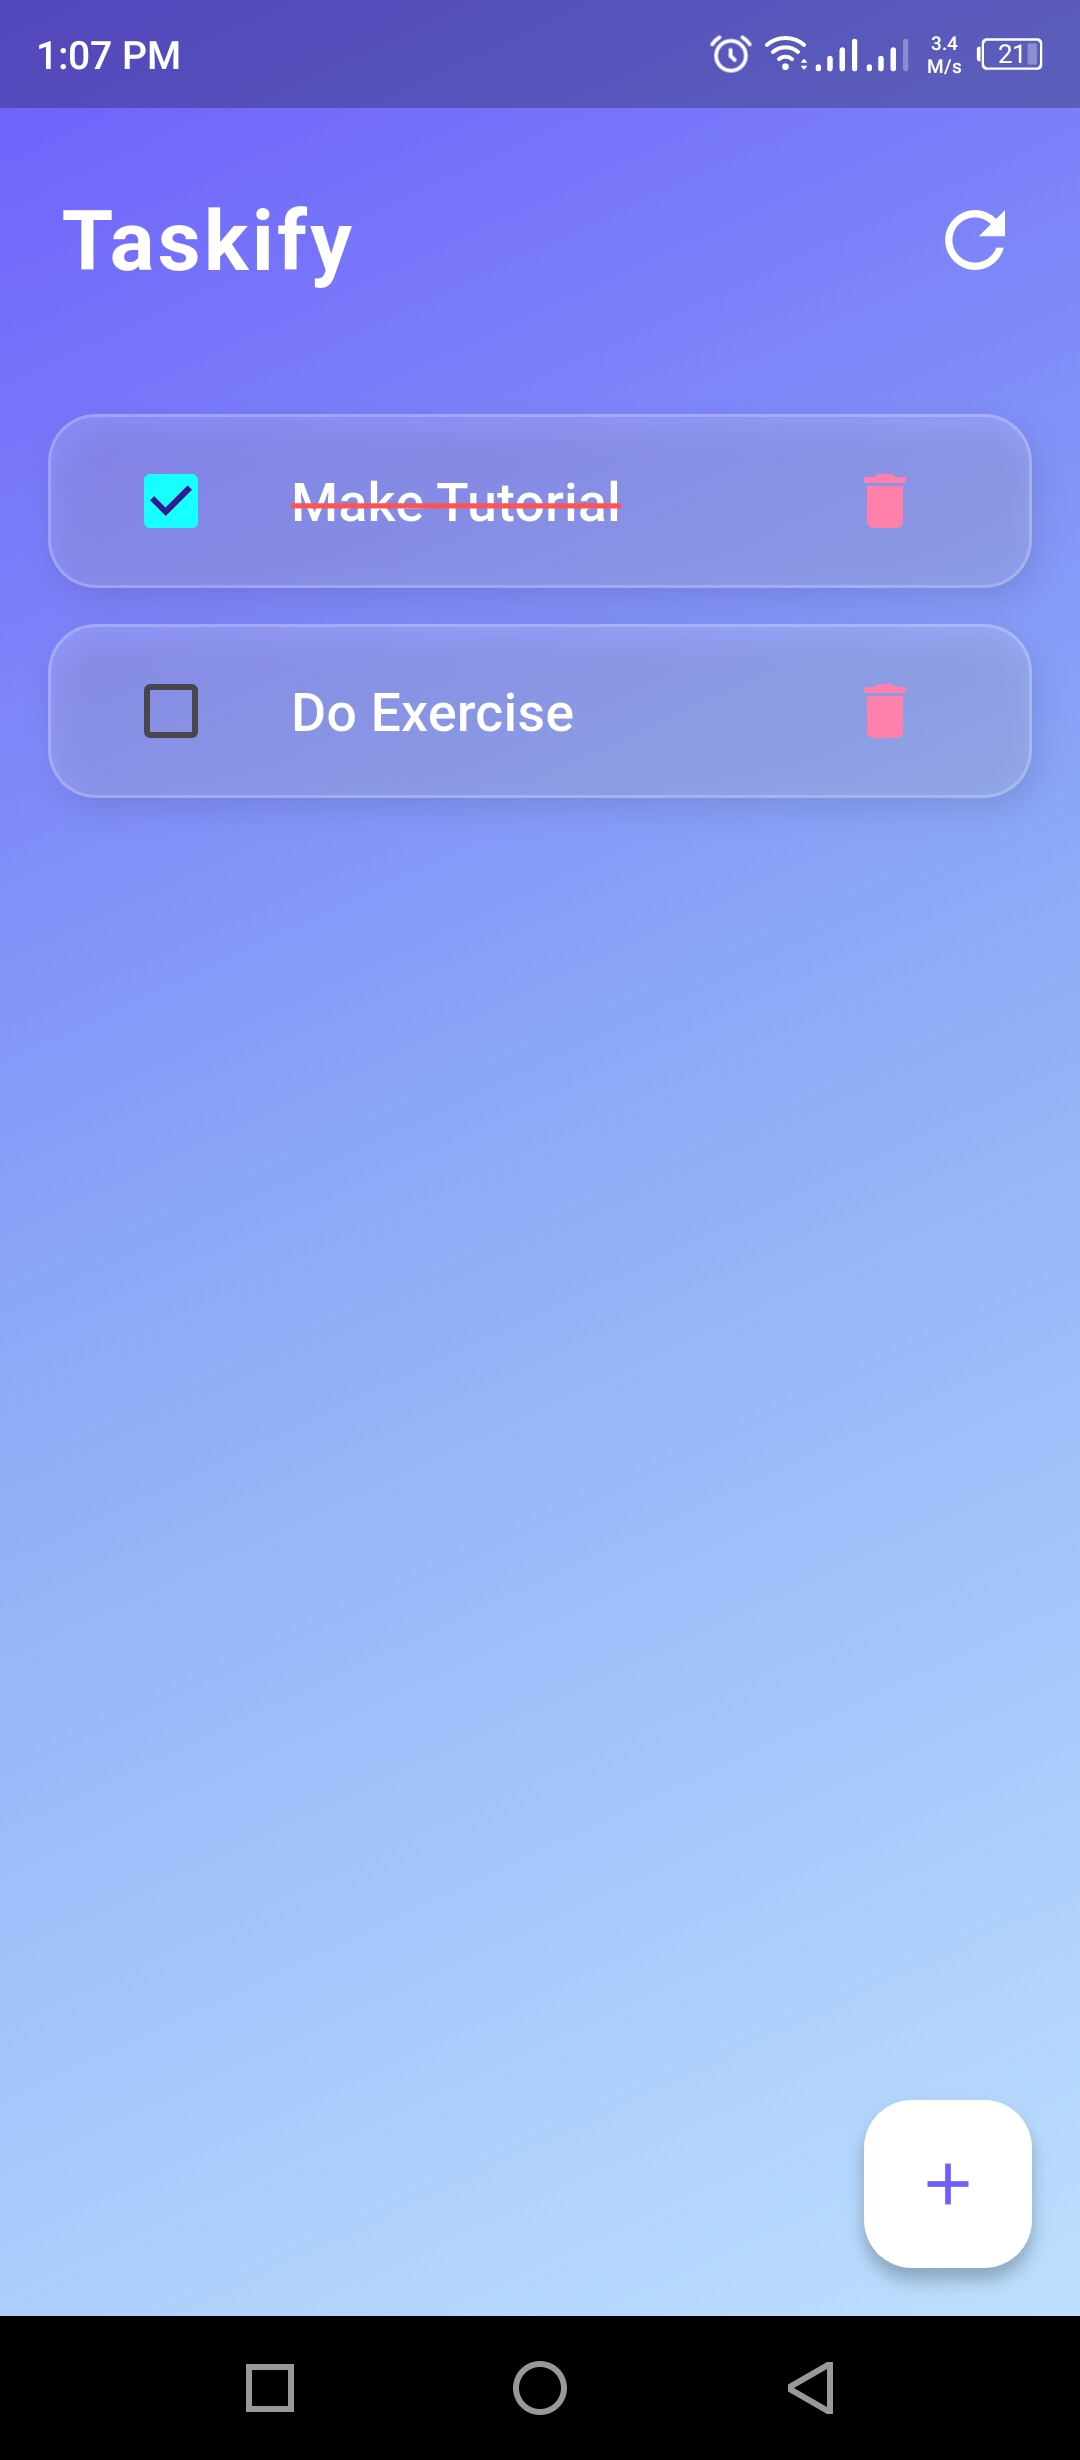
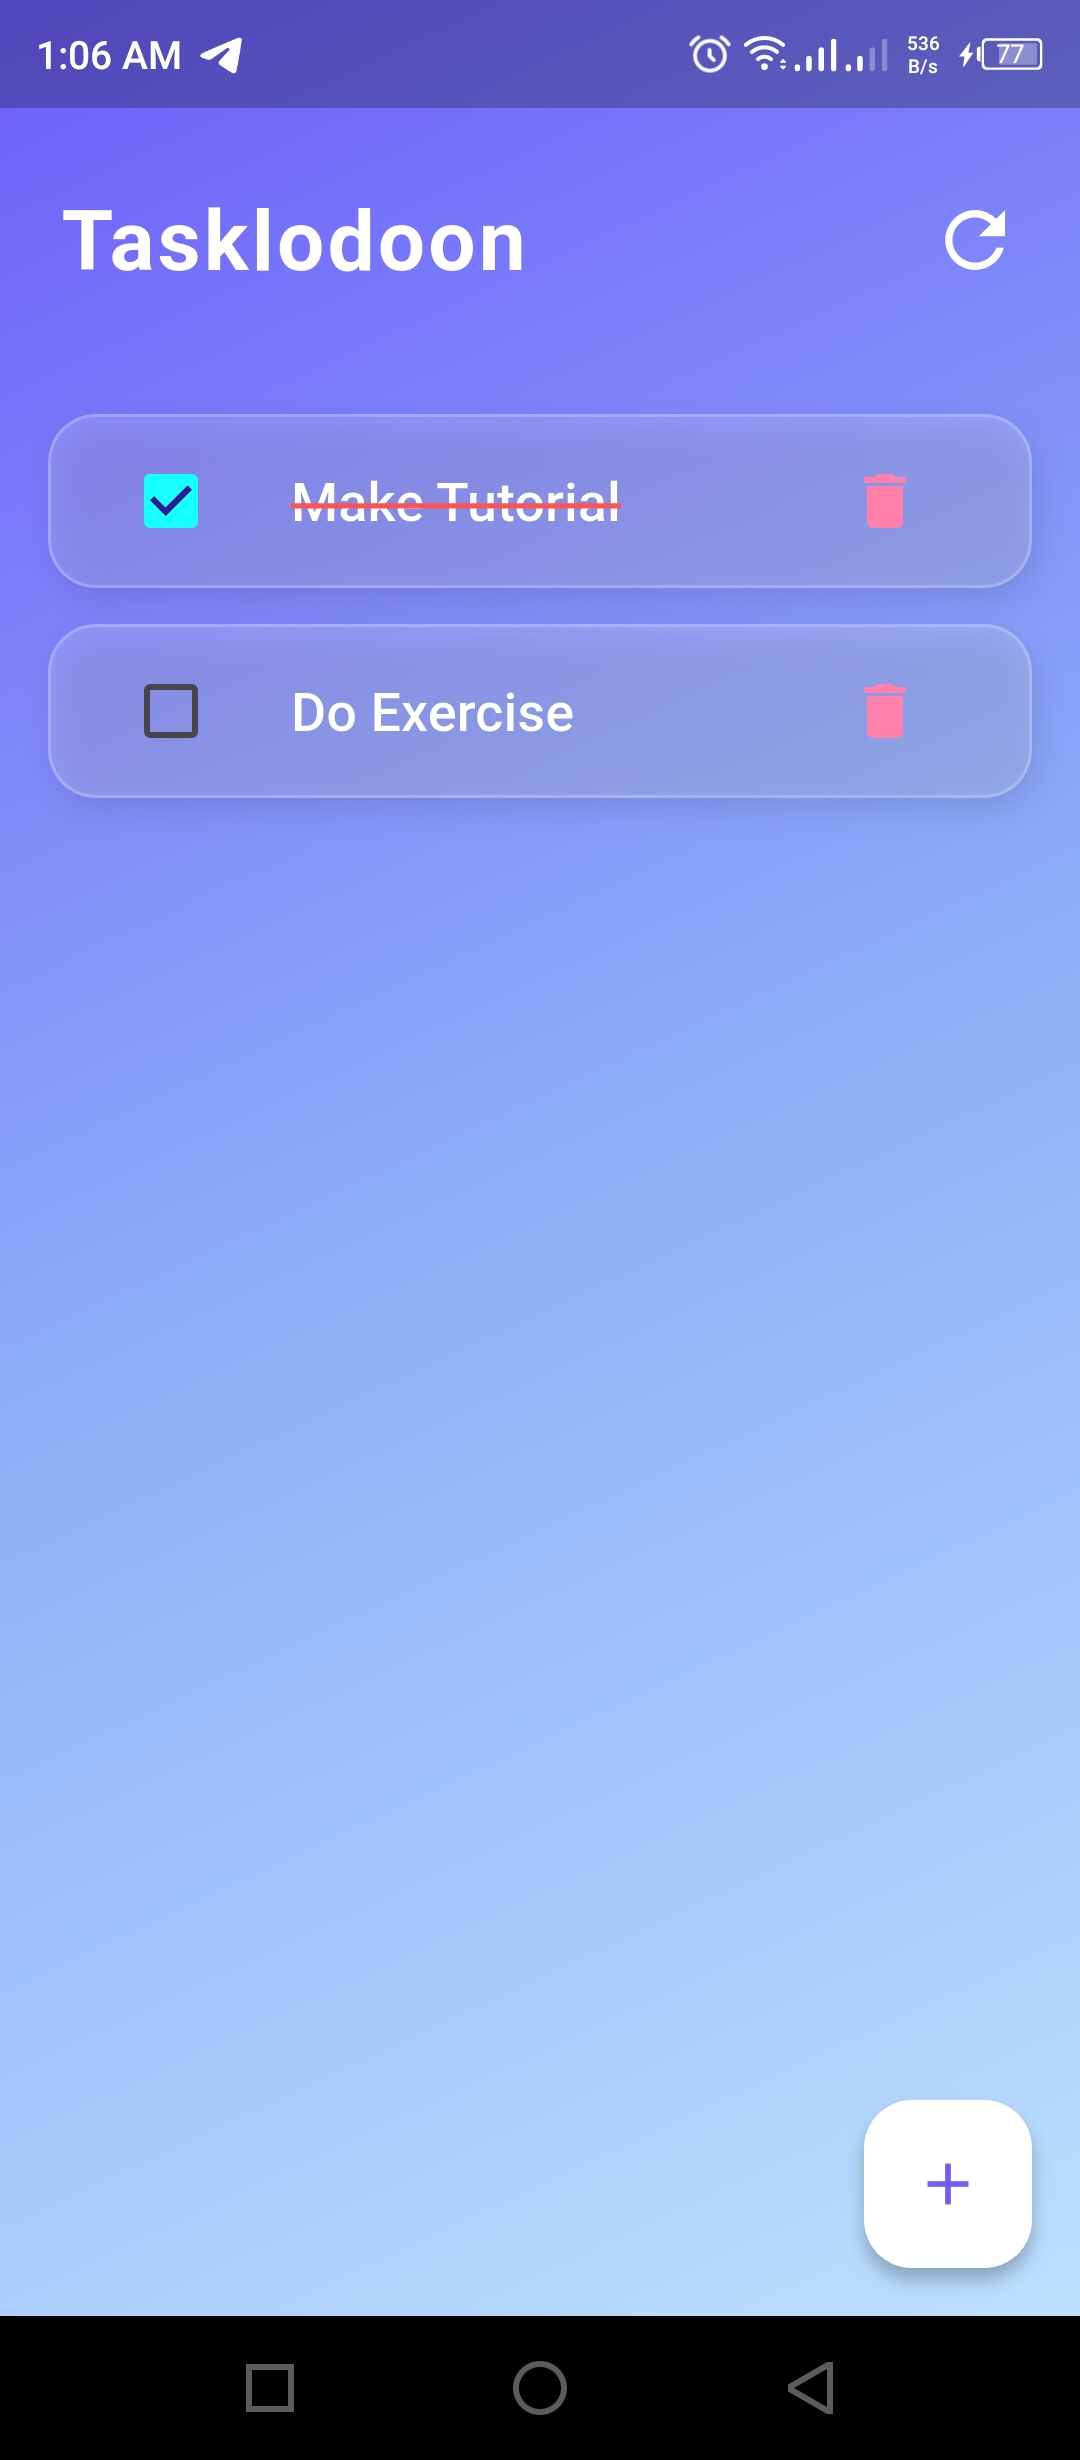
name fixing

diff --git a/lib/pages/home_page.dart b/lib/pages/home_page.dart
@@ -93,7 +93,7 @@ class _HomepageState extends State<Homepage> {
                   mainAxisAlignment: MainAxisAlignment.spaceBetween,
                   children: [
                     Text(
-                      'Taskify',
+                      'Tasklodoon',
                       style: TextStyle(
                         color: Colors.white,
                         fontSize: 28,
